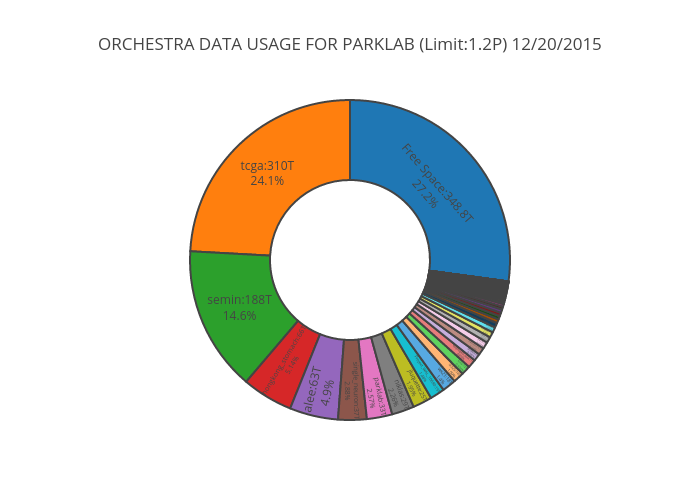
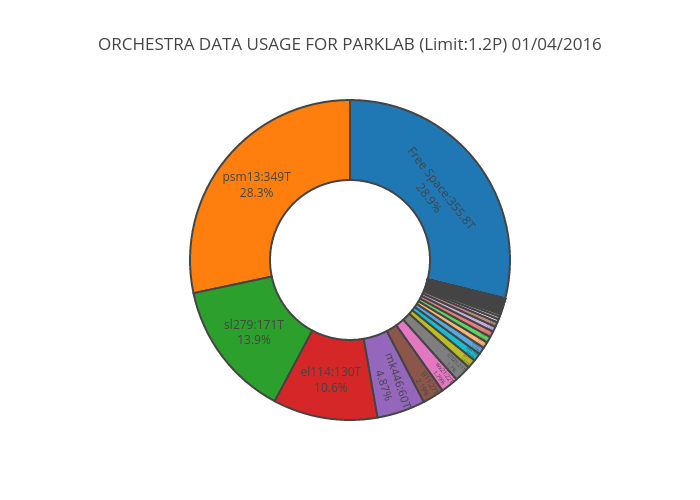
Script now uses data generated weekly from HMS-RC

diff --git a/scripts/python/orchestra_data_usage.py b/scripts/python/orchestra_data_usage.py
@@ -30,11 +30,11 @@ def sizeof_fmt(num, suffix=''):
 with open('/var/www/Website/scripts/python/config') as f:
   credentials = [x.strip() for x in f.readlines()]
 
-# --- Your Slack creds --- 
-# slack = Slacker(credentials[1])
-
 # --- ParkLab Slack creds --- 
-slack = Slacker(credentials[2])
+# slack = Slacker(credentials[2])
+
+# --- Your Slack creds --- 
+slack = Slacker(credentials[1])
 
 ssh = paramiko.SSHClient()
 ssh.load_system_host_keys()
@@ -51,12 +51,11 @@ stdin.close()
 for line in stdout.read().splitlines():
     data.append(line)
 
-'''
+# --- Execute command to find individual users data usage ---
 stdin, stdout, stderr = ssh.exec_command("less /groups/shared_databases/rcbio/report/report_for_so108.txt")
 stdin.close()
 for line in stdout.read().splitlines():
     data2.append(line)
-'''
 
 for index, line in enumerate(data):
     if "/n/data1/hms/dbmi/park [g]" in line:
@@ -64,11 +63,21 @@ for index, line in enumerate(data):
         if things:
             park_lab[things[0].split("]")[0] + "]"] = {'usage':re.split('\s+',data[index + 3])[2], 'warning':re.split('\s+',data[index + 3])[3], 'limit':re.split('\s+',data[index + 3])[4]}
 
-# --- Fetch the sample data given from HMS-RC --- 
-with open("test.txt", "r") as t:
-    for line in t:
-        x = re.split('\s+', line) 
-        park_lab_home[x[2]] =  x[1]
+# --- Create file with user data ---
+with open("/var/www/Website/scripts/python/user_data.txt", "w+") as f:
+    for index, line in enumerate(data2):
+        if "user" in line:
+            try:
+                x = re.split('\s+', line) 
+                f.write("{1}    {0}{2}".format(x[2],line.split(")")[1].strip(), "\n"))
+            except IndexError:
+                pass
+                
+# --- Use the created data --- 
+with open("/var/www/Website/scripts/python/user_data.txt", "r") as f:
+    for line in f:
+        x = re.split('\s+', line)
+        park_lab_home[x[1]] =  x[0]
 
 # --- Populate and create plotly graph --- 
 labels = ["%s:%s" % (item, park_lab_home[item]) for item in park_lab_home]
@@ -105,7 +114,7 @@ py.image.save_as(figure, 'DataUsageParkLab.png')
 
 # --- Post Message to slack channel ---
 # --- ParkLab Slack --- 
-slack.chat.post_message('#orchestra_data_usage', "Interactive Graph -> "+url+".embed", as_user=True)
+# slack.chat.post_message('#orchestra_data_usage', "Interactive Graph -> "+url+".embed", as_user=True)
 
 # --- Your Slack --- 
-# slack.chat.post_message('#general', "Interactive Graph -> "+url+".embed", as_user=True)
+slack.chat.post_message('#general', "Interactive Graph -> "+url+".embed", as_user=True)
